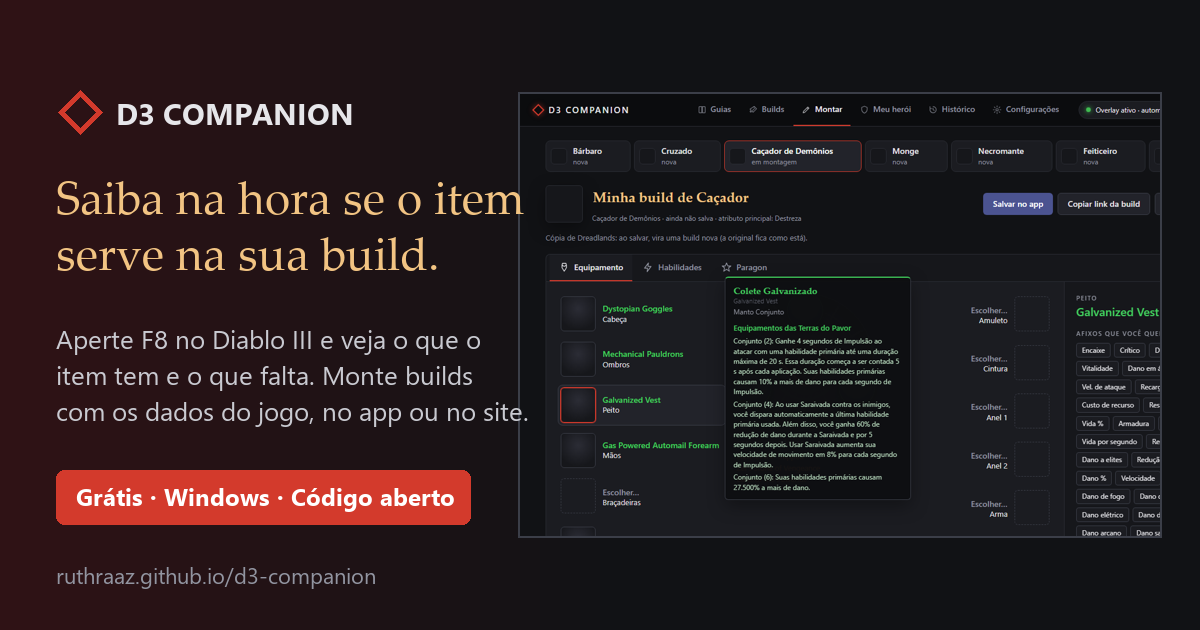
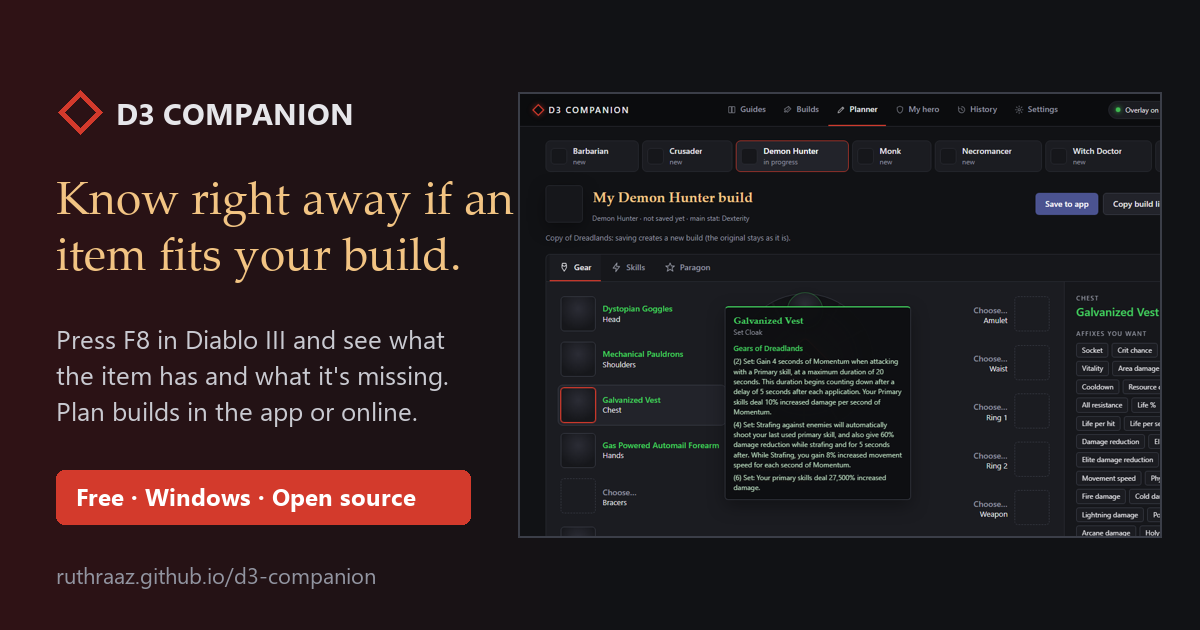
Vitrine e exemplo do app no idioma certo
As imagens do site agora saem em inglês (janela.png, compartilhar.png) e
em português (janela.pt.png, na página pt/). O histórico de exemplo e a
etiqueta "no atalho" do chip da build também seguem o idioma.

diff --git a/src/web/app.js b/src/web/app.js
@@ -347,7 +347,7 @@ function desenharBuilds() {
       title: t("O atalho avalia o item com todas as builds"),
       onclick: () => escolherBuild(""),
     },
-      el("span", { class: "chip-apelido" }, t("Todas")),
+      el("span", { class: "chip-apelido", "data-marca": t("no atalho") }, t("Todas")),
       el("span", { class: "chip-nome" }, t("{n} builds, de todas as classes", { n: estado.builds.length })),
     ),
     daClasse.map(([b, i]) =>
@@ -356,7 +356,7 @@ function desenharBuilds() {
         title: t("O atalho avalia o item só com {nome}", { nome: b.apelido }),
         onclick: () => { estado.build = i; escolherBuild(b.id); },
       },
-        el("span", { class: "chip-apelido" }, b.apelido),
+        el("span", { class: "chip-apelido", "data-marca": t("no atalho") }, b.apelido),
         el("span", { class: "chip-nome" }, b.nome),
       )),
   );
@@ -1261,19 +1261,25 @@ function apiDeExemplo() {
   ];
   const agora = Date.now();
   const quando = min => new Date(agora - min * 60000).toISOString().slice(0, 19);
-  const historico = [
-    { quando: quando(1), com: "Dreadlands", titulo: "Antique Vintage Boots", qualidade: "Set", tipo: "Boots", serve: true,
-      linhas: [[["✅ ", "normal"], ["Dreadlands", "build"], [" · ", "normal"], ["Destreza ✓", "ok"], ["  ", "normal"], ["Vitalidade ✓", "ok"]]] },
-    { quando: quando(2), com: "Dreadlands", titulo: "Rare Gloves", qualidade: "Rare", tipo: "Gloves", serve: false, parcial: true,
-      linhas: [[["🟡 Por enquanto · ", "normal"], ["Dreadlands", "build"], [" · ", "normal"], ["Destreza ✓", "ok"], ["  ", "normal"],
-                ["Vitalidade ✓", "ok"], ["  ", "normal"], ["Crítico ✓", "ok"], ["  ", "normal"], ["Dano crítico ✗", "falta"]],
-               [["A build pede: Gas Powered Automail Forearm", "motivo"]]] },
-    { quando: quando(3), titulo: "Cain's Scrivener", qualidade: "Set", tipo: "Gloves", serve: false,
-      linhas: [[["❌ Não serve", "build"]], [["Dreadlands: A build pede: Gas Powered Automail Forearm", "motivo"]]] },
-    { quando: quando(6), titulo: "Zei's Stone of Vengeance", qualidade: "Legendary", tipo: "Gem", serve: true,
-      linhas: [[["✅ ", "normal"], ["Dreadlands", "build"], [" · Gema da build", "normal"]],
-               [["✅ ", "normal"], ["LoN", "build"], [" · Gema da build", "normal"]]] },
-  ];
+  // O app grava o selo já no idioma da hora; o exemplo monta na hora de mostrar.
+  const historico = () => {
+    const pede = t("A build pede: {itens}", { itens: "Gas Powered Automail Forearm" });
+    const gema = [" · " + t("Gema da build"), "normal"];
+    return [
+      { quando: quando(1), com: "Dreadlands", titulo: "Antique Vintage Boots", qualidade: "Set", tipo: "Boots", serve: true,
+        linhas: [[["✅ ", "normal"], ["Dreadlands", "build"], [" · ", "normal"], [t("Destreza") + " ✓", "ok"], ["  ", "normal"],
+                  [t("Vitalidade") + " ✓", "ok"]]] },
+      { quando: quando(2), com: "Dreadlands", titulo: "Rare Gloves", qualidade: "Rare", tipo: "Gloves", serve: false, parcial: true,
+        linhas: [[[t("🟡 Por enquanto") + " · ", "normal"], ["Dreadlands", "build"], [" · ", "normal"], [t("Destreza") + " ✓", "ok"],
+                  ["  ", "normal"], [t("Vitalidade") + " ✓", "ok"], ["  ", "normal"], [t("Crítico") + " ✓", "ok"], ["  ", "normal"],
+                  [t("Dano crítico") + " ✗", "falta"]],
+                 [[pede, "motivo"]]] },
+      { quando: quando(3), titulo: "Cain's Scrivener", qualidade: "Set", tipo: "Gloves", serve: false,
+        linhas: [[[t("❌ Não serve"), "build"]], [["Dreadlands: " + pede, "motivo"]]] },
+      { quando: quando(6), titulo: "Zei's Stone of Vengeance", qualidade: "Legendary", tipo: "Gem", serve: true,
+        linhas: [[["✅ ", "normal"], ["Dreadlands", "build"], gema], [["✅ ", "normal"], ["LoN", "build"], gema]] },
+    ];
+  };
   let config = { ATALHO: "F8", SELO_SEGUNDOS: "6", BUILD_ATIVA: "", AUTOMATICO: "sim", BATTLETAG: "", IDIOMA: "" };
   const fichaDe = (build, id) => ({
     ...build, id,
@@ -1305,7 +1311,7 @@ function apiDeExemplo() {
     problemas_das_builds: async () => location.search.includes("problema")
       ? { "minha_build.json": ["Espaço 'Hand' não existe. Quis dizer 'Hands'? Opções: Head, Shoulders, …"] }
       : {},
-    historico: async () => historico,
+    historico: async () => historico(),
     miniatura: async () => null,
     config: async () => config,
     salvar_config: async m => {

diff --git a/docs/pt/index.html b/docs/pt/index.html
@@ -91,7 +91,7 @@
     <!-- PRINT DA JANELA -->
     <section class="vitrine">
       <figure>
-        <img src="../img/janela.png" width="1280" height="800" loading="lazy"
+        <img src="../img/janela.pt.png" width="1280" height="800" loading="lazy"
              alt="Janela do D3 Companion na aba Montar: os espaços do boneco, a roda de gemas e a dica de um item de conjunto aberta">
         <figcaption>A janela do app: monte a build e passe o mouse no item pra ver o que ele faz.</figcaption>
       </figure>

diff --git a/docs/app.css b/docs/app.css
@@ -381,7 +381,7 @@ input[type="search"]::-webkit-search-cancel-button { filter: invert(.6); }
 .chip-build.ativo { border-color: var(--acento); background: var(--painel-2); }
 .chip-build.vendo { border-color: var(--borda-forte); border-style: dashed; }
 .chip-build.ativo .chip-apelido::after {
-  content: "no atalho";
+  content: attr(data-marca);
   margin-left: 8px;
   font: 600 9px var(--sans);
   letter-spacing: .1em;

diff --git a/src/web/estilo.css b/src/web/estilo.css
@@ -381,7 +381,7 @@ input[type="search"]::-webkit-search-cancel-button { filter: invert(.6); }
 .chip-build.ativo { border-color: var(--acento); background: var(--painel-2); }
 .chip-build.vendo { border-color: var(--borda-forte); border-style: dashed; }
 .chip-build.ativo .chip-apelido::after {
-  content: "no atalho";
+  content: attr(data-marca);
   margin-left: 8px;
   font: 600 9px var(--sans);
   letter-spacing: .1em;

diff --git a/ferramentas/vitrine.py b/ferramentas/vitrine.py
@@ -1,8 +1,9 @@
 """
 Gera as imagens de divulgação do site (docs/img/):
 
-    janela.png        a janela do app (aba Montar, com a dica de um item aberta)
-    compartilhar.png  a imagem que aparece quando o link é compartilhado (1200x630)
+    janela.png        a janela do app em inglês (aba Montar, com a dica de um item aberta)
+    janela.pt.png     a mesma, em português (página docs/pt/)
+    compartilhar.png  a imagem que aparece quando o link é compartilhado (1200x630, em inglês)
 
     python ferramentas/vitrine.py
 
@@ -40,12 +41,13 @@ VITRINE_JS = """
 (async () => {
   const esperar = ms => new Promise(r => setTimeout(r, ms));
   for (let i = 0; i < 50 && !(window.estado && estado.builds.length); i++) await esperar(100);
-  const botao = [...document.querySelectorAll("#cabeca-build button")].find(b => b.textContent === "Copiar pro montador");
+  const t = s => window.Idioma.t(s);
+  const botao = [...document.querySelectorAll("#cabeca-build button")].find(b => b.textContent === t("Copiar pro montador"));
   if (botao) botao.click();
   await esperar(800);
   const m = document.getElementById("painel-montar");
   const nome = m.querySelector(".nome-da-build");
-  if (nome) { nome.value = "Minha build de Caçador"; nome.dispatchEvent(new Event("input")); }
+  if (nome) { nome.value = window.Idioma.atual === "en" ? "My Demon Hunter build" : "Minha build de Caçador"; nome.dispatchEvent(new Event("input")); }
   const peito = [...m.querySelectorAll(".espaco[data-dica]")][2];
   if (peito) { peito.click(); await esperar(300); }
   const dica = () => document.querySelector(".dica-item");
@@ -67,7 +69,8 @@ def edge() -> Path:
     sys.exit("Não achei o Microsoft Edge (msedge.exe).")
 
 
-def print_da_janela(arquivo: Path, largura=1280, altura=800):
+def print_da_janela(arquivo: Path, idioma: str, largura=1280, altura=800):
+    """idioma: "en" ou "pt" (o app escolhe pelo idioma do navegador, que o --lang troca)."""
     with tempfile.TemporaryDirectory() as pasta:
         copia = Path(pasta) / "web"
         shutil.copytree(WEB, copia)
@@ -82,7 +85,7 @@ def print_da_janela(arquivo: Path, largura=1280, altura=800):
         (copia / "vitrine.js").write_text(VITRINE_JS, encoding="utf-8")
         subprocess.run([str(edge()), "--headless=new", "--disable-gpu", "--hide-scrollbars",
                         "--allow-file-access-from-files", f"--user-data-dir={Path(pasta) / 'perfil'}",
-                        "--no-first-run", "--disable-extensions", "--virtual-time-budget=20000",
+                        "--no-first-run", "--disable-extensions", f"--lang={'pt-BR' if idioma == 'pt' else 'en-US'}", "--virtual-time-budget=20000",
                         f"--window-size={largura},{altura}", f"--screenshot={arquivo}", pagina.as_uri()],
                        check=True, capture_output=True, timeout=120)
 
@@ -116,25 +119,26 @@ def imagem_de_compartilhar(janela: Path, arquivo: Path):
     serifa = ["pala.ttf", "palab.ttf", "georgia.ttf"]
     sans = ["segoeui.ttf", "arial.ttf"]
     d.text((116, 92), "D3 COMPANION", font=fonte(["segoeuib.ttf", "arialbd.ttf"], 30), fill="#e6e6ea")
-    d.text((56, 180), "Saiba na hora se o item", font=fonte(serifa, 46), fill="#f2c483")
-    d.text((56, 236), "serve na sua build.", font=fonte(serifa, 46), fill="#f2c483")
-    linhas = ["Aperte F8 no Diablo III e veja o que o", "item tem e o que falta. Monte builds",
-              "com os dados do jogo, no app ou no site."]
+    d.text((56, 180), "Know right away if an", font=fonte(serifa, 46), fill="#f2c483")
+    d.text((56, 236), "item fits your build.", font=fonte(serifa, 46), fill="#f2c483")
+    linhas = ["Press F8 in Diablo III and see what", "the item has and what it's missing.",
+              "Plan builds in the app or online."]
     for i, linha in enumerate(linhas):
         d.text((56, 320 + i * 36), linha, font=fonte(sans, 26), fill="#c9cad1")
     d.rounded_rectangle([56, 470, 470, 524], radius=8, fill="#d33a2c")
-    d.text((76, 480), "Grátis · Windows · Código aberto", font=fonte(["segoeuib.ttf", "arialbd.ttf"], 24), fill="#ffffff")
+    d.text((76, 480), "Free · Windows · Open source", font=fonte(["segoeuib.ttf", "arialbd.ttf"], 24), fill="#ffffff")
     d.text((56, 560), "ruthraaz.github.io/d3-companion", font=fonte(sans, 22), fill="#9295a1")
     img.save(arquivo, optimize=True)
 
 
 def main():
     DESTINO.mkdir(parents=True, exist_ok=True)
-    janela = DESTINO / "janela.png"
-    print_da_janela(janela)
-    Image.open(janela).convert("RGB").save(janela, optimize=True)
-    imagem_de_compartilhar(janela, DESTINO / "compartilhar.png")
-    for nome in ("janela.png", "compartilhar.png"):
+    for idioma, nome in (("en", "janela.png"), ("pt", "janela.pt.png")):
+        janela = DESTINO / nome
+        print_da_janela(janela, idioma)
+        Image.open(janela).convert("RGB").save(janela, optimize=True)
+    imagem_de_compartilhar(DESTINO / "janela.png", DESTINO / "compartilhar.png")
+    for nome in ("janela.png", "janela.pt.png", "compartilhar.png"):
         print(f"Pronto: docs/img/{nome} ({(DESTINO / nome).stat().st_size // 1024} KB)")
 
 

diff --git a/tests/test_site.py b/tests/test_site.py
@@ -135,7 +135,7 @@ class TestSegurancaDoSite(unittest.TestCase):
     imagem do jogo e a prévia de link apontando pra imagem própria."""
 
     PAGINAS = sorted((RAIZ / "docs").rglob("*.html"))
-    IMAGENS_PERMITIDAS = {"img/janela.png", "img/compartilhar.png", "favicon.svg"}
+    IMAGENS_PERMITIDAS = {"img/janela.png", "img/janela.pt.png", "img/compartilhar.png", "favicon.svg"}
 
     def test_toda_pagina_tem_csp_rigida(self):
         self.assertGreaterEqual(len(self.PAGINAS), 3)

diff --git a/CLAUDE.md b/CLAUDE.md
@@ -225,7 +225,7 @@ trabalho extra agora, não feche essa porta:
   que é ignorada). `img/janela.webp` antigo (builds que vinham junto) → `img/janela.png` novo. Rascunho do montador
   agora é `d3c-montar-v2` (apaga o v1) e só guarda classe com conteúdo (`temConteudo`).
 - Imagens: `ferramentas/vitrine.py` (Edge headless numa CÓPIA de src/web com vitrine.css que esconde `img` e
-  vitrine.js que abre Montar e a dica; sem CSP só na cópia) → `docs/img/janela.png` e `compartilhar.png` (1200x630, PIL).
+  vitrine.js que abre Montar e a dica; sem CSP só na cópia) → `docs/img/janela.png` (en), `janela.pt.png` (pt, `--lang=pt-BR`) e `compartilhar.png` (1200x630, PIL, en).
   Nunca usar CopyFromScreen.
 - Divulgar: Open Graph/Twitter com URL absoluta + canonical (index e montar), robots.txt, sitemap.xml, 404.html,
   `.well-known/security.txt` (Expires daqui a 1 ano: renovar!), botão "Mandar o site pra um amigo" (site.js,
@@ -261,6 +261,8 @@ trabalho extra agora, não feche essa porta:
   Selo (nucleo), motivos (avaliador) e erros de blizzard/heroi/maxroll/janela/link_do_site/config passam por t().
   Frases com variável viram modelo (`"Build {id} não encontrada."`, `!r` → `repr()`). O avaliador agora manda
   `item_da_build` (o selo não depende mais do texto do motivo). Teste: o `ast` acha todo `t("...")` do src/*.py.
+- Texto em CSS (`content:`) não passa por t(): usar `attr(data-...)` com o texto do JS (ex.: "no atalho" do chip).
+  O histórico de exemplo (apiDeExemplo) é montado na hora com t(); o de verdade fica no idioma em que foi gravado.
 - Cache do navegador segura o site.css velho no teste local: recarregar o próprio .css com Ctrl+Shift+R.
 
 ### Licença (26/10/2026)
